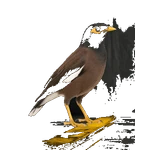
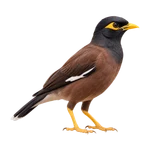
54 new pest, bird and method tile images (gecko and snake tiles back, real mynah), image conversion script

diff --git a/src/config/pageContent.ts b/src/config/pageContent.ts
@@ -423,7 +423,7 @@ export const PAGE_CONTENT: Record<string, PageContent> = {
       pestIcons: [
         { label: 'Pigeon Control', href: '/pigeon-control-dubai', imageKey: 'pigeon' },
         { label: 'Mynah Control', href: '/mynah-bird-control', imageKey: 'mynah' },
-        { label: 'Bird Netting', href: '/bird-netting-dubai', imageKey: 'bird' },
+        { label: 'Bird Netting', href: '/bird-netting-dubai', imageKey: 'bird-netting' },
         { label: 'Bird Spikes', href: '/bird-control-dubai', imageKey: 'bird-spikes' },
       ],
     },
@@ -466,7 +466,7 @@ export const PAGE_CONTENT: Record<string, PageContent> = {
       headline: 'Pigeon Control in Dubai. Guaranteed.',
       pestIcons: [
         { label: 'Pigeon Removal', href: '/pigeon-control-dubai', imageKey: 'pigeon' },
-        { label: 'Bird Netting', href: '/bird-netting-dubai', imageKey: 'bird' },
+        { label: 'Bird Netting', href: '/bird-netting-dubai', imageKey: 'bird-netting' },
         { label: 'Bird Spikes', href: '/bird-control-dubai', imageKey: 'bird-spikes' },
         { label: 'All Bird Control', href: '/bird-control-dubai', imageKey: 'bird' },
       ],
@@ -507,7 +507,7 @@ export const PAGE_CONTENT: Record<string, PageContent> = {
       pestIcons: [
         { label: 'Mynah Removal', href: '/mynah-bird-control', imageKey: 'mynah' },
         { label: 'Pigeon Control', href: '/pigeon-control-dubai', imageKey: 'pigeon' },
-        { label: 'Bird Netting', href: '/bird-netting-dubai', imageKey: 'bird' },
+        { label: 'Bird Netting', href: '/bird-netting-dubai', imageKey: 'bird-netting' },
         { label: 'All Bird Control', href: '/bird-control-dubai', imageKey: 'bird' },
       ],
     },
@@ -537,7 +537,7 @@ export const PAGE_CONTENT: Record<string, PageContent> = {
     hero: {
       headline: 'Dubai Bird Netting. Installed Same-Day.',
       pestIcons: [
-        { label: 'Anti-Bird Nets', href: '/bird-netting-dubai', imageKey: 'bird' },
+        { label: 'Anti-Bird Nets', href: '/bird-netting-dubai', imageKey: 'bird-netting' },
         { label: 'Pigeon Control', href: '/pigeon-control-dubai', imageKey: 'pigeon' },
         { label: 'Bird Spikes', href: '/bird-control-dubai', imageKey: 'bird-spikes' },
         { label: 'All Bird Control', href: '/bird-control-dubai', imageKey: 'bird' },
@@ -741,10 +741,10 @@ export const PAGE_CONTENT: Record<string, PageContent> = {
     hero: {
       headline: 'Dubai Solar Panel Bird Proofing. Same-Day.',
       pestIcons: [
-        { label: 'Solar Bird Proofing', href: '/solar-panel-bird-proofing-dubai', imageKey: 'bird' },
+        { label: 'Solar Bird Proofing', href: '/solar-panel-bird-proofing-dubai', imageKey: 'solar-panel-mesh' },
         { label: 'Pigeon Control', href: '/pigeon-control-dubai', imageKey: 'pigeon' },
         { label: 'Bird Spikes', href: '/bird-control-dubai', imageKey: 'bird-spikes' },
-        { label: 'Bird Netting', href: '/bird-netting-dubai', imageKey: 'bird' },
+        { label: 'Bird Netting', href: '/bird-netting-dubai', imageKey: 'bird-netting' },
       ],
     },
     expertise: {
@@ -879,8 +879,8 @@ export const PAGE_CONTENT: Record<string, PageContent> = {
   '/lizard-control-dubai': {
     hero: {
       headline: 'Lizard & Gecko Control in Dubai. Humane & Lasting.',
-      // No gecko image yet (docs/pest-image-list.md): the tiles show the insects that draw lizards in
-      pestIcons: [pest('German Cockroach'), pest('Common House Spider'), pest('Fly', '/fly-control-dubai', 'fly'), pest('Mosquito', '/mosquito-control-dubai', 'mosquito')],
+      // The gecko, then the insects that draw lizards in
+      pestIcons: [pest('House Gecko', '/lizard-control-dubai', 'house-gecko'), pest('German Cockroach'), pest('Common House Spider'), pest('Fly', '/fly-control-dubai', 'fly'), pest('Mosquito', '/mosquito-control-dubai', 'mosquito')],
     },
     expertise: {
       title: 'Get Rid of Lizards by Removing What Attracts Them',
@@ -914,8 +914,8 @@ export const PAGE_CONTENT: Record<string, PageContent> = {
   '/snake-removal-dubai': {
     hero: {
       headline: 'Snake Removal in Dubai. Keep Away, WhatsApp Us.',
-      // No snake image yet (docs/pest-image-list.md): the tiles show the pests that draw snakes in and the other desert-edge pests
-      pestIcons: [pest('Rodents', '/rodent-control', 'rodent'), pest('Arabian Fat-tailed Scorpion'), pest('Camel Spider')],
+      // The snake, then the pests that draw snakes in and the other desert-edge pests
+      pestIcons: [pest('Snakes', '/snake-removal-dubai', 'snake'), pest('Rodents', '/rodent-control', 'rodent'), pest('Arabian Fat-tailed Scorpion'), pest('Camel Spider')],
     },
     expertise: {
       title: 'Safe Snake Removal for Dubai Villas and Gardens',

diff --git a/src/config/pageContentHelpers.ts b/src/config/pageContentHelpers.ts
@@ -30,82 +30,34 @@ const PEST_ASSET_BASE = '/assets/img/pests';
 const PEST_IMAGE_FALLBACKS: Record<string, string> = {
   // --- Dubai species and "signs" tiles added 21 Nov 2026: stand-ins until the real image exists.
   //     Full list of images to produce: docs/pest-image-list.md
-  'ghost-ant': 'pharaoh-ant',
-  'black-garden-ant': 'black-ant',
-  'longhorn-crazy-ant': 'black-ant',
-  'big-headed-ant': 'pavement-ant',
-  'ant-trail': 'ant',
-  'garden-ant-nest': 'ant',
-  'german-cockroach-nymph': 'german-cockroach',
-  'cockroach-egg-case': 'roach',
-  'cockroach-droppings': 'roach',
-  'subterranean-termite': 'eastern-subterranean-termite',
-  'harvester-termite': 'termite',
   'winged-termite': 'termite',
-  'termite-soldier': 'termite',
   'termite-worker': 'termite',
-  'termite-mud-tubes': 'termite',
-  'termite-damage': 'termite',
-  'common-house-mosquito': 'northern-house-mosquito',
-  'mosquito-larvae': 'mosquito',
-  'mosquito-breeding-water': 'mosquito',
   midges: 'gnat',
-  'sand-fly': 'gnat',
-  'flea-larvae': 'flea',
-  'flea-eggs': 'flea',
-  'rodent-droppings': 'rodent',
-  'arabian-spiny-mouse': 'house-mouse',
-  'engorged-tick': 'brown-dog-tick',
-  'brown-dog-tick-nymph': 'brown-dog-tick',
   'tick-larvae': 'brown-dog-tick',
   'tick-eggs': 'brown-dog-tick',
-  'pigeon-tick': 'blacklegged-tick',
-  'bird-netting': 'bird',
-  'bird-spikes': 'bird',
-  'bird-wire': 'bird',
   'bird-gel': 'bird',
-  'solar-panel-mesh': 'bird',
-  'balcony-net': 'bird',
   'terrace-net': 'bird',
-  'car-park-net': 'bird',
-  // The mynah image shows a bird of prey (25 Nov 2026): neutral bird until the real mynah image is made
-  mynah: 'bird',
-  'pigeon-nest': 'pigeon',
-  'pigeon-droppings': 'pigeon',
-  'stored-product-moth': 'weevil',
   'wooden-pallets': 'commercial-pc',
-  'shipping-container': 'commercial-pc',
-  'fly-larvae': 'fly',
-  'insect-light-trap': 'fly',
   // --- Ticks ---
   'american-dog-tick': 'blacklegged-tick',
-  'hyalomma-tick': 'blacklegged-tick',
-  'camel-tick': 'blacklegged-tick',
   'bont-tick': 'blacklegged-tick',
   'soft-tick': 'blacklegged-tick',
   // --- Mosquitoes ---
   'inland-floodwater-mosquito': 'northern-house-mosquito',
-  'malaria-mosquito': 'northern-house-mosquito',
   'arabian-mosquito': 'northern-house-mosquito',
   'culex-quinquefasciatus': 'northern-house-mosquito',
   // --- Spiders ---
   'jumping-spider': 'common-house-spider',
-  'false-black-widow': 'common-house-spider',
-  'brown-widow': 'common-house-spider',
-  'yellow-sac-spider': 'common-house-spider',
-  'camel-spider': 'wolf-spider',
   // --- Bees ---
   'leafcutter-bee': 'mason-bee',
   'long-horned-bee': 'mining-bee',
   'eastern-honey-bee': 'western-honey-bee',
-  'arab-carpenter-bee': 'eastern-carpenter-bee',
   'large-carpenter-bee': 'eastern-carpenter-bee',
   'small-carpenter-bee': 'eastern-carpenter-bee',
   // --- Ants ---
   'argentine-ant': 'odorous-house-ant',
   'little-black-ant': 'pavement-ant',
   // --- Wasps / Hornets ---
-  'oriental-hornet': 'paper-wasp',
   'yellow-wasp': 'paper-wasp',
   'asian-paper-wasp': 'paper-wasp',
   'banded-mud-wasp': 'mud-dauber',
@@ -114,13 +66,9 @@ const PEST_IMAGE_FALLBACKS: Record<string, string> = {
   'arabian-drywood-termite': 'drywood-termite',
   // --- Rodents ---
   'cairo-spiny-mouse': 'house-mouse',
-  'sand-rat': 'house-mouse',
   // --- Centipedes ---
   'arabian-desert-centipede': 'common-house-centipede',
   // --- Flies ---
-  'house-fly': 'fly',
-  'fruit-fly': 'friut-flies',
-  'moth-fly': 'fly',
   // --- Miscellaneous plural/variant labels used in pageContent ---
   'ants': 'black-ant',
   'cockroaches': 'roach',

diff --git a/src/components/HomeHero.tsx b/src/components/HomeHero.tsx
@@ -78,7 +78,7 @@ const MOBILE_HERO_PESTS: MobileHeroPestItem[] = [
   { label: 'Mosquitoes', href: '/mosquito-control-dubai', image: `${BASE}/mosquito.webp` },
   { label: 'Hornets', href: '/hornet-nest-removal', image: `${BASE}/hornet.webp` },
   { label: 'Pigeons', href: '/pigeon-control-dubai', image: '/assets/img/pests/pigeon-m.webp' },
-  { label: 'Mynahs', href: '/mynah-bird-control', image: '/assets/img/pests/bird-m.webp' },
+  { label: 'Mynahs', href: '/mynah-bird-control', image: '/assets/img/pests/mynah-m.webp' },
   { label: 'Ticks', href: '/tick-control-dubai', image: '/assets/img/pests/brown-dog-tick-m.webp' },
   { label: 'Spiders', href: '/spider-control-dubai', image: `${BASE}/spider.webp` },
   { label: 'Fleas', href: '/pest-control-for-fleas', image: `${BASE}/flea.webp` },

diff --git a/CLAUDE.md b/CLAUDE.md
@@ -52,7 +52,7 @@ npm run preview   # serve the production build (out/) at localhost:4000: what th
 
 **Hero claims per page (v2):** price = the page's main service (first `priceKeys` entry) via `heroPriceText()`, area pages use `'lowest'`; warranty = the main service's `warrantyDays` via `heroWarrantyDays()` (no warranty line on mosquito, fly, snake, scorpion, camel spider, bird, business pages). Phone pest grid = the page's own pests + General Pest Control + "50+ more".
 
-**Photos:** every guide/community has `photos` briefs. `ImagePlaceholder` shows a labelled placeholder in `npm run dev` and an existing team photo in production. Add the real photo by setting `src` on the brief. Full list for the team: `docs/photo-shot-list.md` (52 photos). Missing pest / bird / method tile images (62): `docs/pest-image-list.md`, with AI image prompts in `docs/pest-image-prompts.md` (photo-realistic cut-out on white, three-quarter top view; delivered as `<key>.png` 1024 px, converted to 300 / 150 / 100 px WebP with transparency).
+**Photos:** every guide/community has `photos` briefs. `ImagePlaceholder` shows a labelled placeholder in `npm run dev` and an existing team photo in production. Add the real photo by setting `src` on the brief. Full list for the team: `docs/photo-shot-list.md` (52 photos). Missing pest / bird / method tile images (62): `docs/pest-image-list.md`, with AI image prompts in `docs/pest-image-prompts.md` (photo-realistic cut-out on white, three-quarter top view; delivered as `<key>.png` 1024 px, converted to 300 / 150 / 100 px WebP with transparency by `node scripts/add-pest-images.mjs <folder>`, then drop the key from `PEST_IMAGE_FALLBACKS`). 54 of 62 done 26 Nov 2026 (still to make: termite-worker, winged-termite, tick-eggs, tick-larvae, bird-gel, terrace-net, wooden-pallets). Tips that worked: ask ChatGPT for a pure white background (its transparent PNGs often carry a grey or brown haze), top-down views for spiders and ticks (leg counts come out right), and check every leg count.
 
 **Where things live (one place each):**
 
@@ -176,6 +176,7 @@ Per-page schemas:
 
 | Date | Task | Files Changed |
 |------|------|---------------|
+| 2026-11-26 | **54 new pest, bird and method tile images**: generated in ChatGPT with `docs/pest-image-prompts.md`, checked one by one (legs, colours, look at tile size), converted with `scripts/add-pest-images.mjs` (lays the image on white, cuts the white background out by flood fill from the edges, trims, centres at 86% fill, writes 300 / 150 / 100 px WebP) and their stand-ins removed from `PEST_IMAGE_FALLBACKS`. Gecko and snake tiles back on the Lizard and Snake heroes; mynah tile and phone hero icon now a real mynah; Bird Netting / Anti-Bird Nets hero tiles use `bird-netting`, Solar Bird Proofing uses `solar-panel-mesh` | `public/assets/img/pests/`, `scripts/add-pest-images.mjs`, `pageContentHelpers.ts`, `pageContent.ts`, `HomeHero.tsx`, `docs/pest-image-list.md` |
 | 2026-11-26 | **Listing sheet + review messages**: `docs/business-listing-sheet.md` (exact name, phone, website, hours, categories, short/medium/long descriptions, services with links, images, directories in order with status, local link ideas) and `docs/review-messages.md` (review link, WhatsApp messages in English, Arabic and Roman Urdu, reminder, what to do when a customer asks you to write the review, Google rules, reply templates). Search Console grouped by service (90 days): birds 115 impressions avg position 66, cockroaches 57 / 73, bed bugs 52 / 43, rats 35 / 70, scorpions + camel spiders 22 / 18, wasps 20 / 49, mosquitoes 18 / 67; all 15 clicks from the brand name | `docs/` |
 | 2026-11-26 | **Unique phone snippet per page**: Google showed the generic phone-hero line "We specialize in pest control, bird control & pest removal across Dubai!" as the snippet (same on all 54 pages). `HomeHero` now takes `tagline` (service pages: their meta description, area pages: theirs, homepage: own line). Bird FAQ gained "What do your bird control services include?". Keyword-specific wording changes for one search were tried and reverted (owner): optimise pages for the whole query group from Search Console, not single searches | `HomeHero.tsx`, `[slug]/page.tsx`, `pageContent.ts` |
 | 2026-11-26 | **New brand kit logos + icons**: `scripts/build-brand-assets.mjs <kit folder>` builds everything in `public/assets/img/brand/` from the brand kit (Downloads/Prime-Pest-Control-Complete-Brand-Kit): trimmed horizontal logo for the desktop header (60px), vertical logo for the phone header (58px) and phone menu (52px) (`logo-vertical.webp`: the kit version with the gap between mark and name tightened, so the name is readable at phone size), white-text version for the black footer, `src/app/favicon.ico` (16/32/48 on a white tile so it shows on dark tabs), apple-touch-icon, 192/512 + maskable icons for the new `src/app/manifest.ts`, schema `logo` (600px square) and a 1200 × 630 share image `og-image.jpg` (logo + one line, no AI technician photo; the kit says that photo is illustrative). Old `prime-brand-kit` folder removed. Facebook link is now `facebook.com/primepestdubai` (footer + schema `sameAs`). LocalBusiness `name` = "Prime Pest Control" (same as GBP and Facebook), `alternateName` "Prime Pest Control Dubai". GBP checked 26 Nov: Open 24 hours, 5.0 (1 review), website link still without the UTM tag | `images.ts`, `layout.tsx`, `manifest.ts`, `Footer.tsx`, `globals.css`, `scripts/build-brand-assets.mjs`, `public/assets/img/brand/` |

diff --git a/docs/pest-image-list.md b/docs/pest-image-list.md
@@ -1,5 +1,7 @@
 # Pest image list
 
+> **Status 26 Nov 2026: 54 of 62 added** (ChatGPT images, prompts in `docs/pest-image-prompts.md`; the `balcony-net` tile is an outside view of two tower balconies). **Still to make:** `termite-worker`, `winged-termite`, `tick-eggs`, `tick-larvae`, `bird-gel`, `terrace-net`, `wooden-pallets` (they show their stand-in until then), and optionally a better `house-crow`. Rows below are the original brief; an image exists for every key not in this status line.
+
 Tiles in the "What we treat" grids and hero pest icons that still use a stand-in image. Generated from
 `src/config/pageContent.ts` (21 Nov 2026). The site works without them; each tile shows the stand-in until the
 real image is added.
@@ -10,15 +12,16 @@ or transparent background, centred, no text. Real photos preferred; for methods 
 **Ready-made image prompts for every image below:** `docs/pest-image-prompts.md`.
 
 **Files (3 per image), in `public/assets/img/pests/`, WebP with transparency (same as the existing ones):**
-`<key>.webp` (300 × 300), `<key>-d.webp` (150 × 150) and `<key>-m.webp` (100 × 100). Once the 3 files are in
-place, remove the key from `PEST_IMAGE_FALLBACKS` in `src/config/pageContentHelpers.ts`.
+`<key>.webp` (300 × 300), `<key>-d.webp` (150 × 150) and `<key>-m.webp` (100 × 100). To add images: put the `<key>.png` files in one folder and run
+`node scripts/add-pest-images.mjs "<folder>"` (cuts out a white background, centres, writes the 3 sizes),
+then remove the keys from `PEST_IMAGE_FALLBACKS` in `src/config/pageContentHelpers.ts`.
 
 Sorted by how many pages use the tile (most first).
 
 | # | Tile | File key | What the image should show | Stand-in now | Pages |
 |---|---|---|---|---|---|
-| 1 | Bird Spikes | `bird-spikes` | Stainless steel bird spikes fixed on a ledge or parapet (method) | bird | 5 |
-| 2 | Camel Spider | `camel-spider` | Camel spider (solifuge): large sandy-coloured arachnid with big jaws | wolf-spider | 5 |
+| 1 | Bird Spikes | `bird-spikes` | ✅ Added 26 Nov 2026 (ChatGPT image) | - | 5 |
+| 2 | Camel Spider | `camel-spider` | ✅ Added 26 Nov 2026 (ChatGPT image) | - | 5 |
 | 3 | Subterranean Termite | `subterranean-termite` | Subterranean termite worker: creamy-white soft-bodied termite (the type that damages Dubai villas) | eastern-subterranean-termite | 5 |
 | 4 | Bird Netting | `bird-netting` | Bird net installed on a balcony or terrace (method) | bird | 4 |
 | 5 | Bird Wire | `bird-wire` | Tensioned bird wire along a ledge or railing (method) | bird | 4 |
